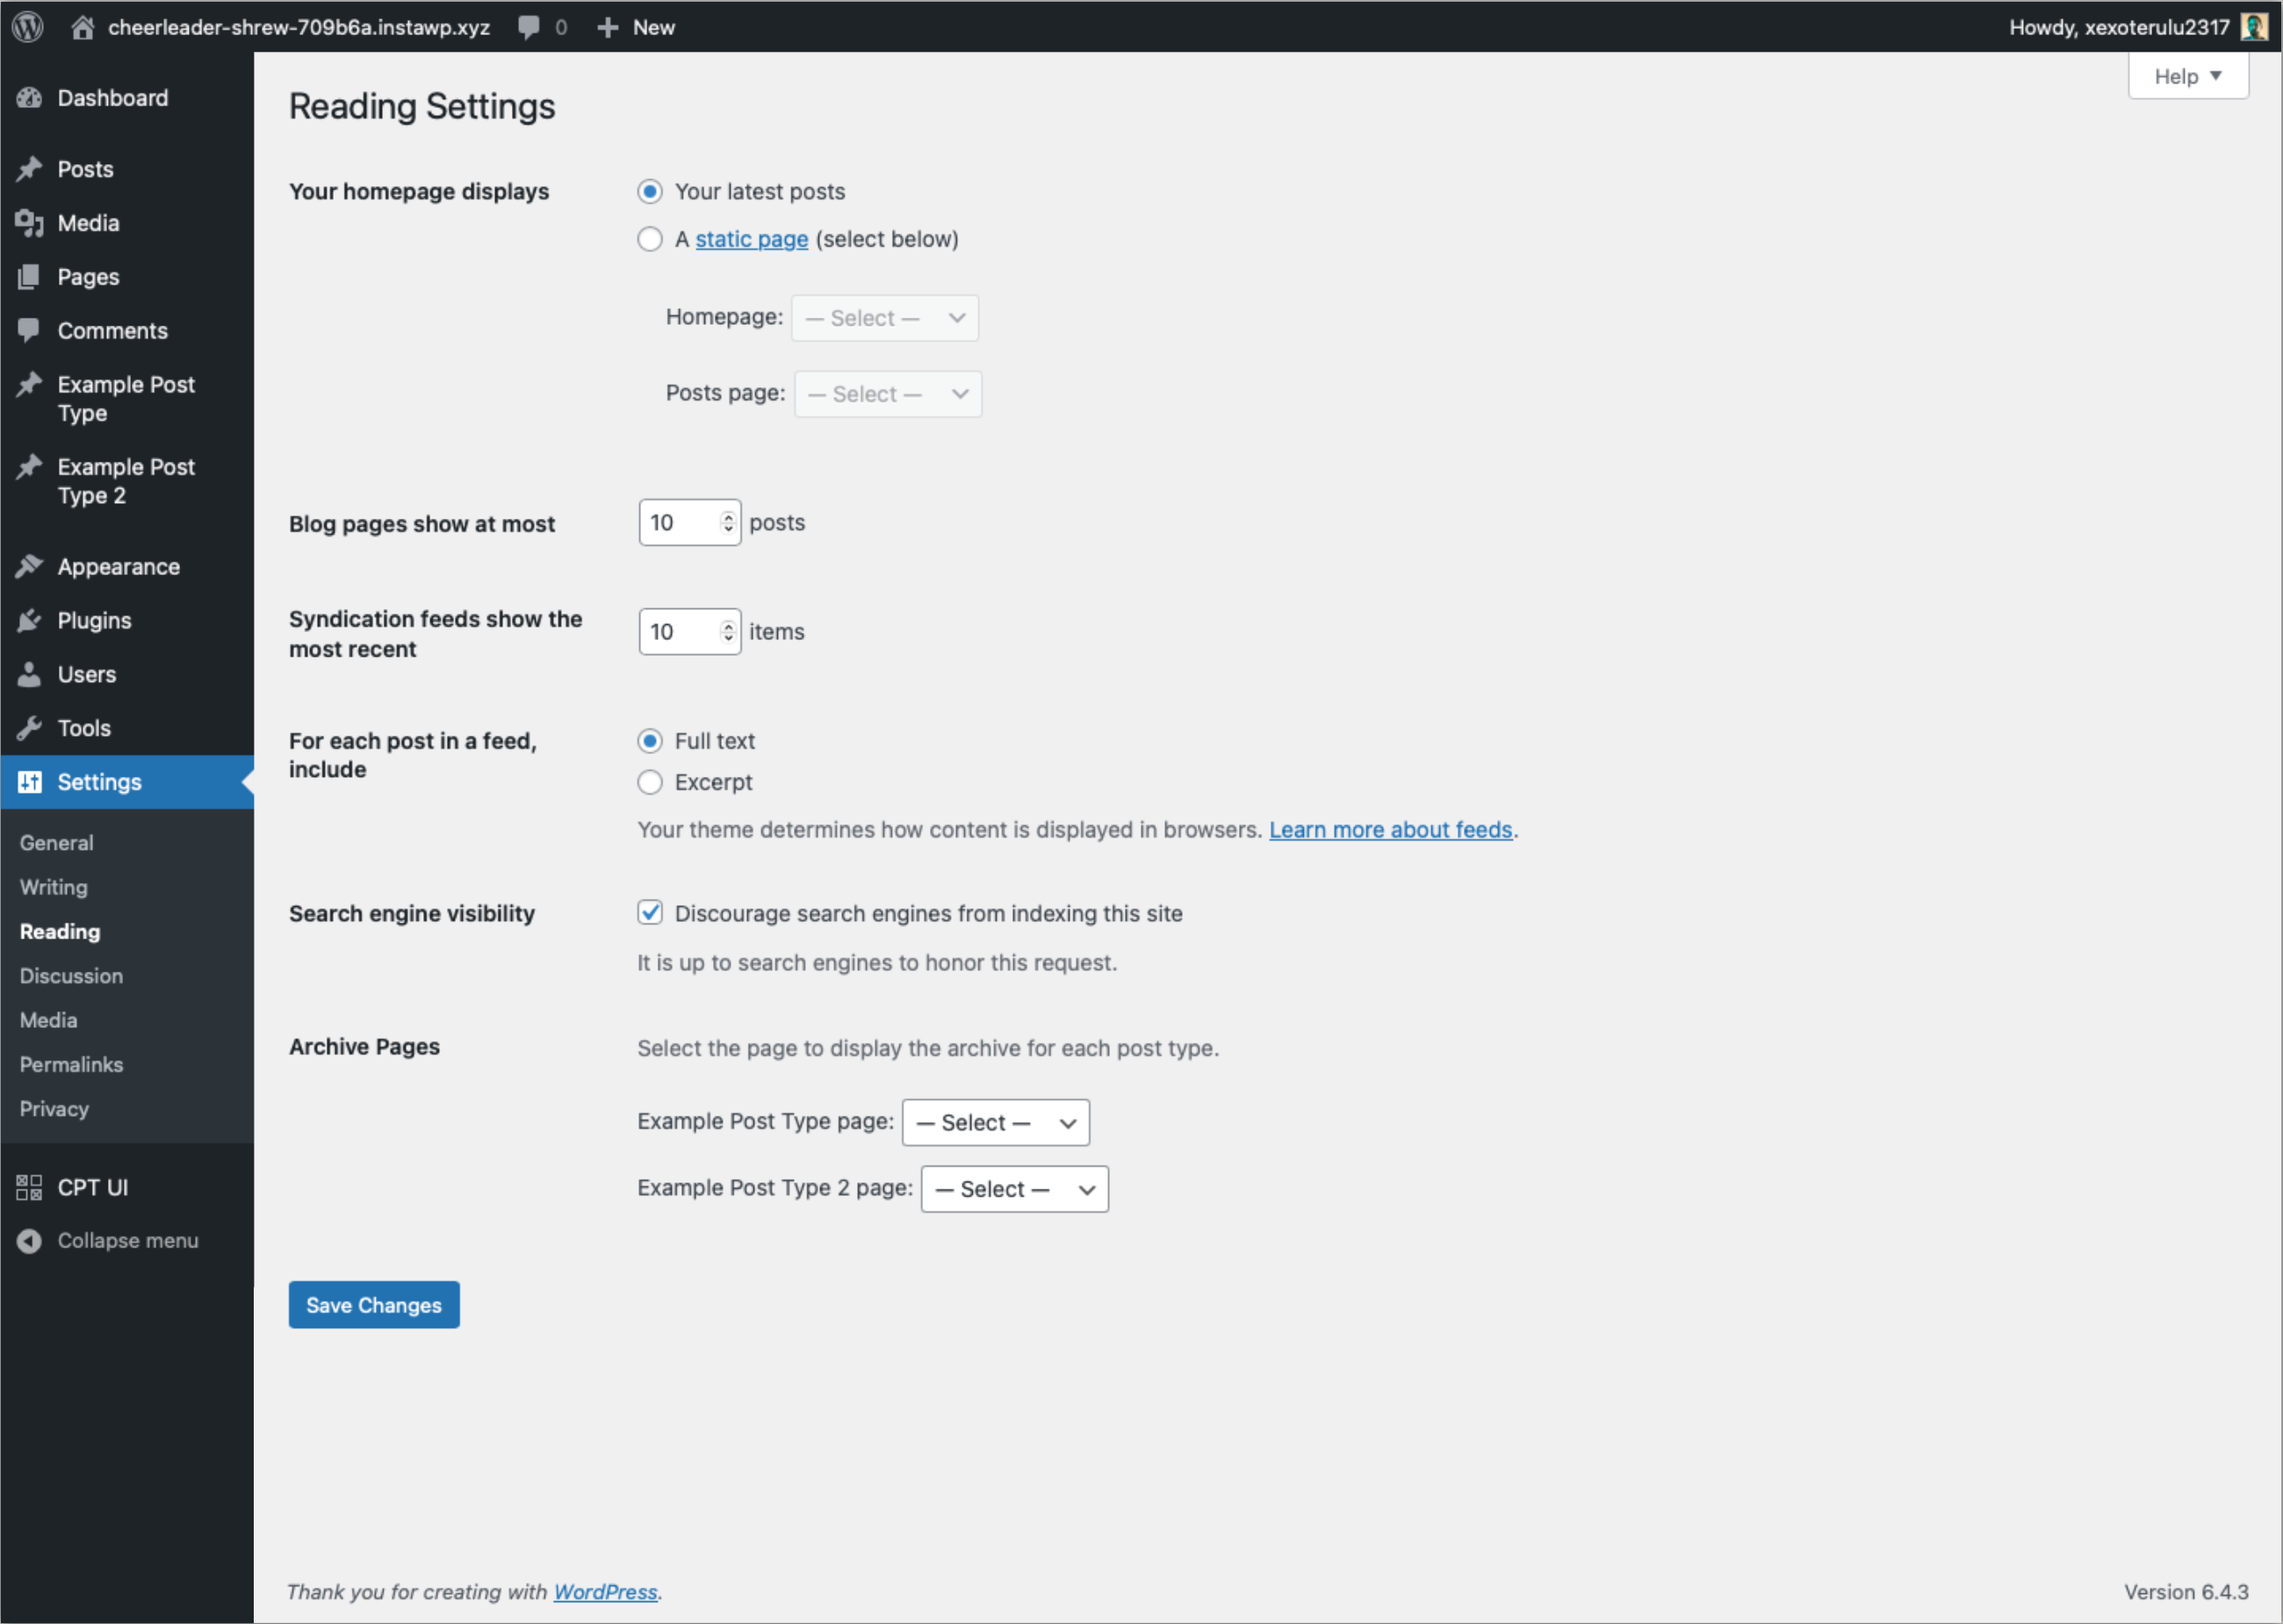
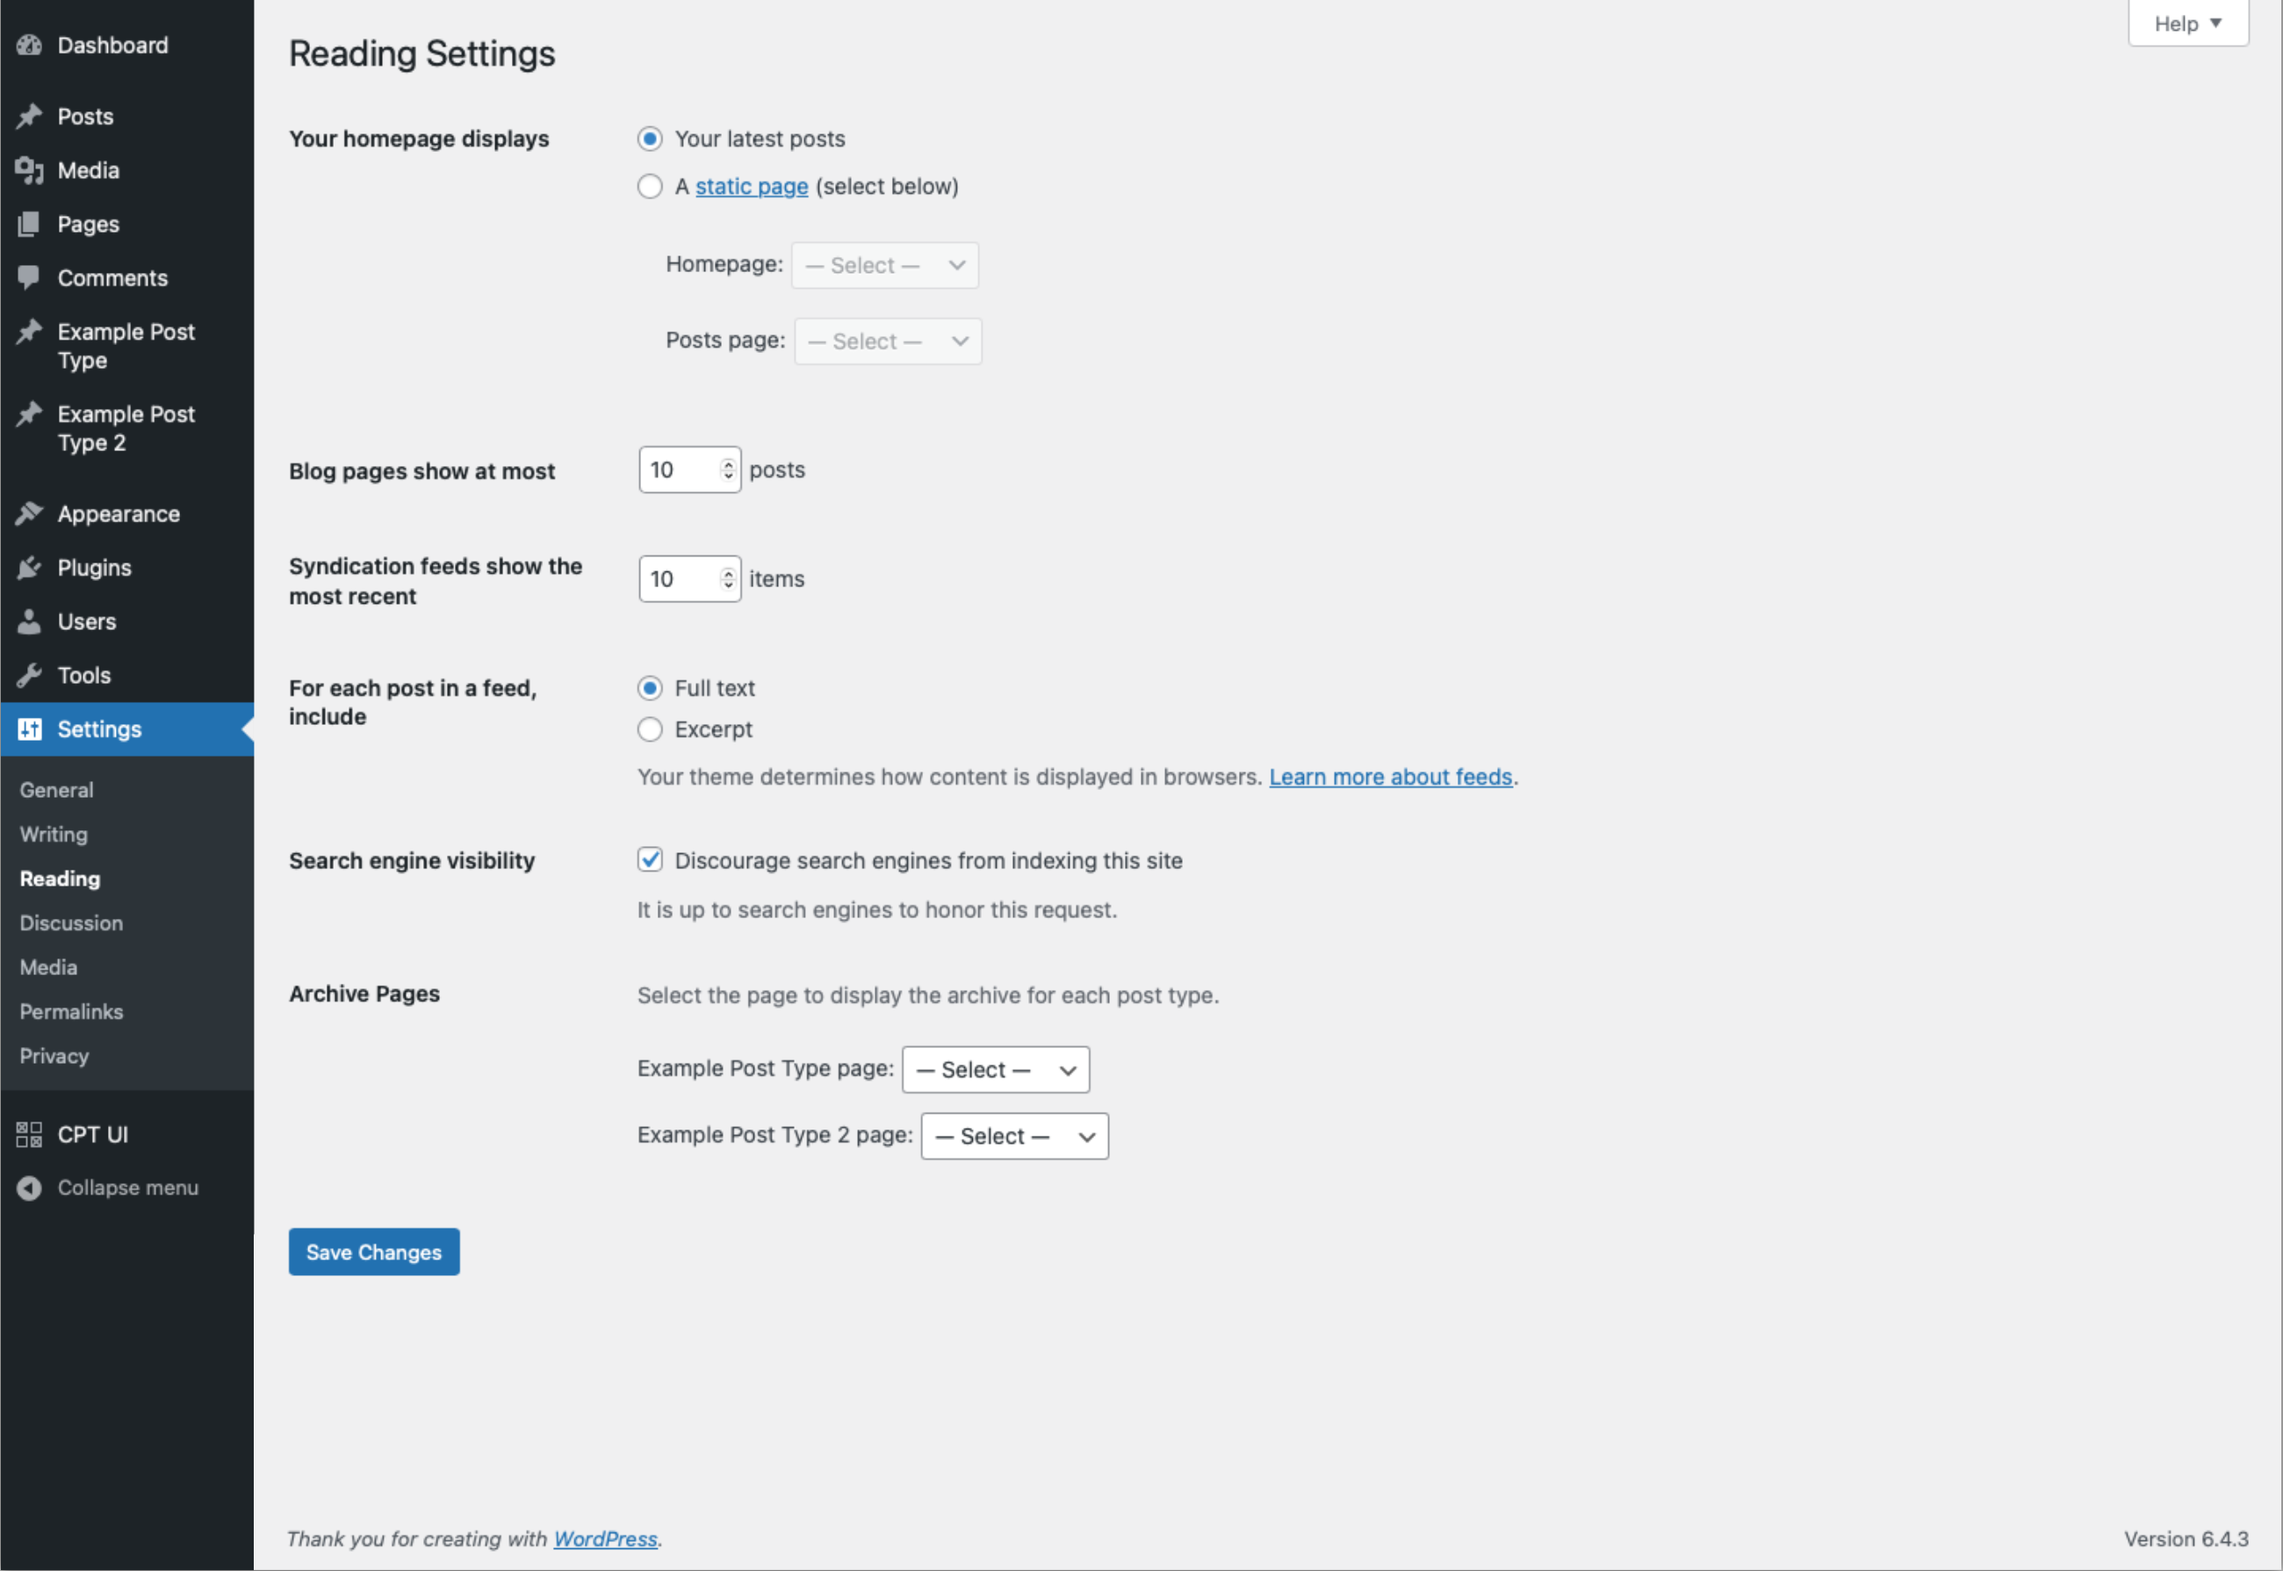
docs: prepare WordPress.org listing copy and assets

diff --git a/README.md b/README.md
@@ -85,6 +85,12 @@ Composer development dependencies are not included in the release.
 
 Keep plugin code compatible with PHP 8.0 when using newer development tools.
 
+## WordPress.org listing assets
+
+Listing images live in `.wordpress-org/` and are excluded from plugin ZIPs.
+They follow the [official WordPress.org asset requirements](https://developer.wordpress.org/plugins/wordpress-org/plugin-assets/).
+Listing copy and screenshot captions live in `readme.txt`.
+
 ## License
 
 GPLv3
